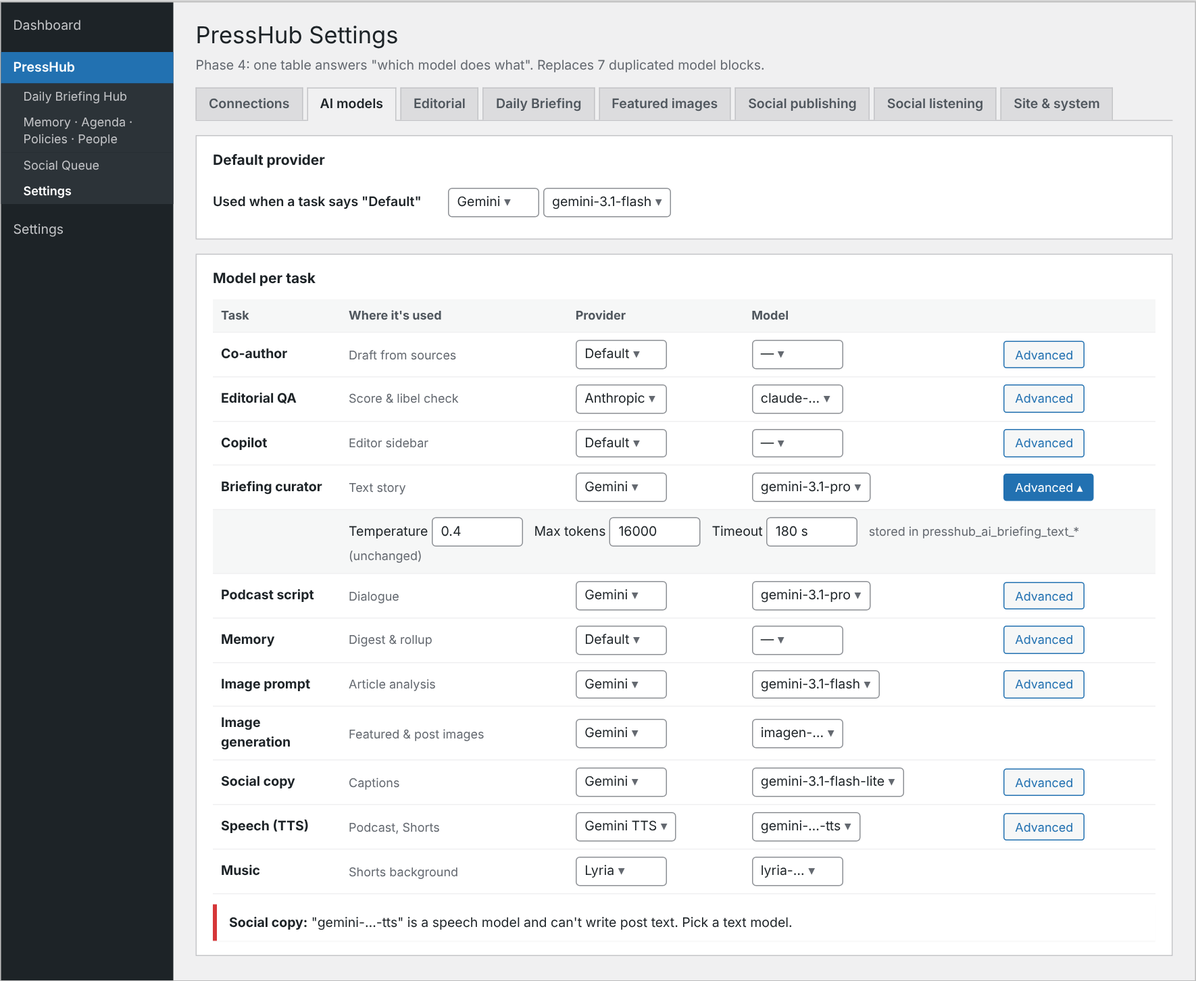
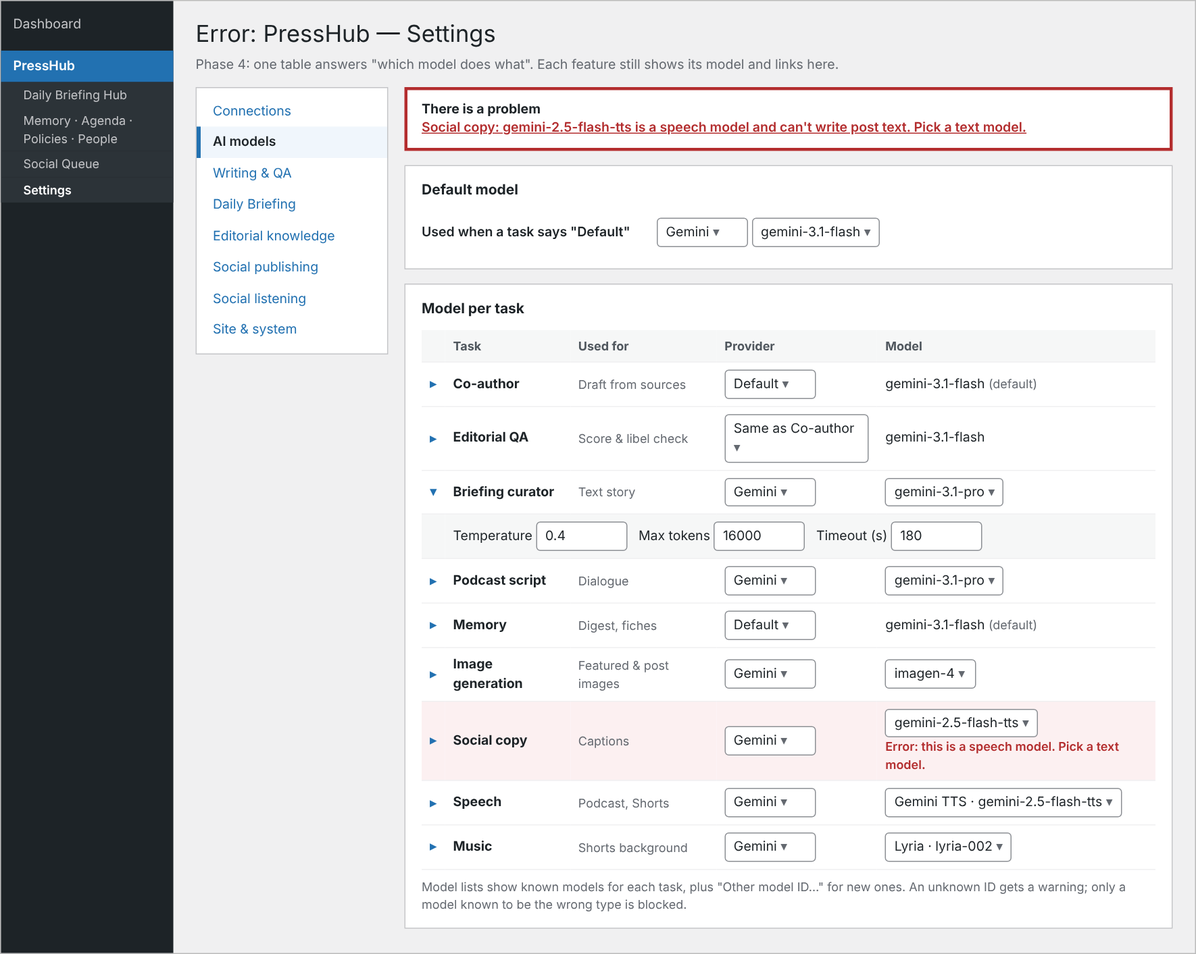
docs(settings): mockups updated for the independent UI review
Side section nav, per-section save with unsaved-changes guard, settings
search, one notice listing every unmet Shorts requirement, cached
connection status, resolved default models, GOV.UK-style errors, a
Scheduled for removal list and a label-first clean-up report.

Claude-Session: https://claude.ai/code/session_013L9h76MmkfmFz1rkbvCuzK

diff --git a/docs/settings-overhaul/mockups/mockups.html b/docs/settings-overhaul/mockups/mockups.html
@@ -36,147 +36,206 @@ th{font-size:12px;color:#50575e;background:#f6f7f7}
 .tag{font-size:10px;font-family:Consolas,monospace;padding:1px 5px;border-radius:3px;background:#e5f0fa;color:#135e96;margin-left:6px}
 .dim{opacity:.45}
 .lbl{position:relative}.callout{position:absolute;right:-6px;top:-10px;background:#d63638;color:#fff;font-size:10px;padding:1px 6px;border-radius:8px}
-</style></head><body>
 
-<!-- 1. Phase 1: hidden settings surfaced -->
+.snav{width:190px;flex:none;background:#fff;border:1px solid #c3c4c7;padding:8px 0;align-self:flex-start}
+.snav a{display:block;padding:6px 12px;color:#2271b1;text-decoration:none;border-left:4px solid transparent}
+.snav a.on{color:#1d2327;font-weight:600;border-left-color:#2271b1;background:#f0f6fc}
+.snav .s{padding:6px 12px}
+.layout{display:flex;gap:16px;align-items:flex-start;margin-top:10px}.content{flex:1;min-width:0}
+.toc{font-size:12px;color:#50575e;padding:4px 0 6px}.toc a{color:#2271b1;margin-right:12px;text-decoration:none}
+.search{border:1px solid #8c8f94;border-radius:4px;padding:5px 10px;background:#fff;color:#646970;width:100%;margin-bottom:8px}
+.savebar{position:relative;margin-top:16px;background:#fff;border:1px solid #c3c4c7;border-top:3px solid #2271b1;padding:10px 14px;display:flex;gap:12px;align-items:center}
+.cb{display:inline-block;width:16px;height:16px;border:1px solid #8c8f94;border-radius:4px;background:#fff;vertical-align:-3px;text-align:center;line-height:14px;font-size:12px;color:#2271b1}
+.cb.on:after{content:"✓";font-weight:700}
+.h3{font-size:13px;font-weight:600;margin:14px 0 4px;padding-top:10px;border-top:1px solid #dcdcde}
+.disabled{color:#50575e}.disabled .in{background:#f6f7f7;color:#50575e;border-color:#c3c4c7}
+.errsum{border:3px solid #b32d2e;background:#fff;padding:10px 14px;margin-top:12px}
+.errsum b{color:#1d2327}.errsum a{color:#b32d2e;font-weight:600}
+tr.erow td{background:#fcf0f1}.errtxt{color:#b32d2e;font-weight:600;font-size:12px}
+.exp{color:#2271b1;font-size:14px}
+.warnt{color:#8a4b00;font-weight:600}
+</style></head><body>
+<!-- P1 -->
 <div class="screen" id="p1">
  <div class="side"><div>Dashboard</div><div>Posts</div><div class="gap"></div><div class="top">Settings</div><div class="sub">General</div><div class="sub cur">PressHub AI</div><div class="gap"></div><div>Daily Briefing Hub</div><div>Policy Fiches</div><div>PressHub Social</div></div>
- <div class="main"><h1>PressHub AI Settings</h1><div class="crumb">Phase 1: same tabs as today. Previously hidden settings become visible; nothing is removed yet.</div>
- <div class="tabs"><div class="tab">AI Providers</div><div class="tab">AI Co-Author &amp; Review</div><div class="tab on">Daily Briefing Hub</div><div class="tab">AI Featured Images</div><div class="tab">AI Copilot</div><div class="tab">Token &amp; Usage Logs</div><div class="tab">Advanced &amp; System</div></div>
+ <div class="main"><h1>PressHub AI Settings</h1><div class="crumb">Phase 1: same pages as today. Hidden settings that change behaviour appear in the block they belong to. Nothing is removed.</div>
+ <div class="tabs"><div class="tab">AI Providers</div><div class="tab">AI Co-Author &amp; Review</div><div class="tab on">Daily Briefing Hub</div><div class="tab">AI Featured Images</div><div class="tab">AI Copilot &amp; Assistant</div><div class="tab">Editorial knowledge <span class="pill new">new</span></div><div class="tab">Token &amp; Usage Logs</div><div class="tab">Advanced &amp; System</div></div>
  <div class="two">
- <div class="card"><h2>§2 Podcast &amp; Audio <span class="pill new">2 fields now visible</span></h2>
-  <div class="row"><label>Voice synthesis engine <span class="pill new">was hidden</span></label><div><span class="in sel">Gemini TTS</span><div class="hint">Also decides which voices the Shorts &amp; Reels narrator can use (Social → Automation Worker).</div></div></div>
-  <div class="row"><label>Podcast preset <span class="pill new">was hidden</span></label><div><span class="in sel">Conversational news (default)</span></div></div>
-  <div class="row"><label>Presenter 1 voice</label><div><span class="in sel">Kore</span></div></div>
+ <div class="card"><h2>§2 Podcast: speech model</h2>
+  <div class="row"><label>Speech engine <span class="pill new">was hidden</span></label><div><span class="in sel">Gemini TTS</span><div class="hint">Also decides which voices the Shorts &amp; Reels narrator can use. Default: Gemini TTS.</div></div></div>
+  <div class="row"><label>Speech provider / model</label><div><span class="in sel">Gemini</span> <span class="in sel">gemini-2.5-flash-tts</span></div></div>
+  <div class="row"><label>Podcast preset <span class="pill new">was hidden</span></label><div><span class="in sel">Conversational news</span><div class="hint">Default: Conversational news.</div></div></div>
  </div>
- <div class="card"><h2>§1 Text Story Curator: model <span class="pill new">2 fields now visible</span></h2>
+ <div class="card"><h2>§1 Text Story Curator: model</h2>
   <div class="row"><label>Curator provider / model</label><div><span class="in sel">Gemini</span> <span class="in sel">gemini-3.1-pro</span></div></div>
-  <div class="row"><label>Curator temperature <span class="pill new">was hidden</span></label><div><span class="in">0.4</span></div></div>
-  <div class="row"><label>Curator timeout (s) <span class="pill new">was hidden</span></label><div><span class="in">180</span></div></div>
+  <div class="row"><label>Temperature <span class="pill new">was hidden</span></label><div><span class="in">0.4</span> <span class="hint">Default 0.4. Lower is more literal.</span></div></div>
+  <div class="row"><label>Timeout (s) <span class="pill new">was hidden</span></label><div><span class="in">180</span> <span class="hint">Default 180.</span></div></div>
  </div></div>
- <div class="card"><h2>Advanced &amp; System → Diagnostic logging</h2>
-  <div class="row"><label>Raw debug dump: prompts</label><div><span class="in">☐</span> <span class="hint">was labelled "Raw debug dump"</span></div></div>
-  <div class="row"><label>Raw debug dump: TTS payloads</label><div><span class="in">☐</span> <span class="hint">was also labelled "Raw debug dump"</span></div></div>
+ <div class="card"><h2>Editorial knowledge <span class="hint" style="font-weight:400">new section: switches that were only code filters</span></h2>
+  <div class="two"><div>
+  <div class="row"><label>Policy fiches in AI calls</label><div><span class="cb on"></span> <span class="hint">Adds matching policy fiches to every prompt. Default: on.</span></div></div>
+  <div class="row"><label>People fiches in AI calls</label><div><span class="cb on"></span> <span class="hint">Default: on.</span></div></div></div><div>
+  <div class="row"><label>Claim checks in curation</label><div><span class="cb on"></span> <span class="hint">Default: on.</span></div></div>
+  <div class="row"><label>Clean the article pool</label><div><span class="cb on"></span> max age <span class="in">48</span> h</div></div></div></div>
+  <div class="collapsed">▸ Advanced: context budgets for agenda, people and policies (characters)</div>
  </div>
- <div class="save"><span class="btn p">Save Daily Briefing Settings</span><span class="hint">One save path for every tab (options.php / AJAX / per-section maps merged into one option map).</span></div>
+ <div class="savebar"><span class="btn p">Save Daily Briefing Settings</span><span class="hint">All three save paths now read one settings registry. <a href="#">Export settings (JSON, no keys)</a></span></div>
  </div></div>
 
-<!-- 2. Phase 2: briefing sub-tabs -->
+<!-- P1 removal list -->
+<div class="screen" id="p1-removal">
+ <div class="side"><div>Dashboard</div><div class="gap"></div><div class="top">Settings</div><div class="sub cur">PressHub AI</div><div class="gap"></div><div>Daily Briefing Hub</div><div>Policy Fiches</div><div>PressHub Social</div></div>
+ <div class="main"><h1>PressHub AI Settings</h1><div class="crumb">Phase 1 onward: unused settings leave their sections and wait in one list for your sign-off. Their saved values are kept until the clean-up phase.</div>
+ <div class="tabs"><div class="tab">AI Providers</div><div class="tab">AI Co-Author &amp; Review</div><div class="tab">Daily Briefing Hub</div><div class="tab">AI Featured Images</div><div class="tab">AI Copilot &amp; Assistant</div><div class="tab">Editorial knowledge</div><div class="tab">Token &amp; Usage Logs</div><div class="tab on">Advanced &amp; System</div></div>
+ <div class="card"><h2>Diagnostics → Scheduled for removal</h2>
+ <div class="hint" style="margin-bottom:8px">Nothing here is read by PressHub. These settings are removed in the clean-up phase, only after you approve this list.</div>
+ <table><tr><th>Setting</th><th>Was shown on</th><th>Saved value</th><th>Why it's unused</th><th>Last read</th></tr>
+ <tr><td><b>Second GitHub token</b></td><td>Social → General &amp; Engines</td><td class="mono">ghp_••••91</td><td>Plugin updates use the AI GitHub token</td><td>Never</td></tr>
+ <tr><td><b>X OAuth1 keys</b> (3)</td><td>Social → API Credentials</td><td class="mono">set</td><td>Posting to X uses the bearer token or the worker</td><td>Never</td></tr>
+ <tr><td><b>Podcast prompts 1–3</b></td><td>Daily Briefing §2</td><td>3 prompts</td><td>Replaced by the per-style prompt studio</td><td>Before 2.20</td></tr>
+ </table>
+ <div class="save"><span class="btn">Download as JSON</span><span class="hint">Approve the list on the clean-up pull request (#237).</span></div></div>
+ </div></div>
+
+<!-- P2 briefing -->
 <div class="screen" id="p2-briefing">
  <div class="side"><div>Dashboard</div><div>Posts</div><div class="gap"></div><div class="top">Settings</div><div class="sub cur">PressHub AI</div><div class="gap"></div><div>Daily Briefing Hub</div><div>Policy Fiches</div><div>PressHub Social</div></div>
- <div class="main"><h1>PressHub AI Settings</h1><div class="crumb">Phase 2: the 124-field Briefing tab split into sub-tabs. Option names unchanged.</div>
- <div class="tabs"><div class="tab">AI Providers</div><div class="tab">AI Co-Author &amp; Review</div><div class="tab on">Daily Briefing Hub</div><div class="tab">AI Featured Images</div><div class="tab">AI Copilot</div><div class="tab">Social listening <span class="pill new">new</span></div><div class="tab">Advanced &amp; System</div></div>
- <div class="subtabs"><span class="on">Schedule</span><span>Sources &amp; harvesting</span><span>Text story</span><span>Podcast script</span><span>Voices &amp; audio</span><span>Publishing</span><span>Editorial memory</span></div>
- <div class="two">
-  <div class="card"><h2>Morning edition <span class="pill ok">On</span></h2>
-   <div class="row"><label>Enabled</label><div><span class="in">☑</span></div></div>
+ <div class="main"><h1>PressHub AI Settings</h1><div class="crumb">Phase 2: Daily Briefing becomes one scrolling page of six named groups with a contents bar. No second row of tabs.</div>
+ <div class="search">Search settings… (labels, help text and old names, e.g. "host female", "TikTok shorts")</div>
+ <div class="tabs"><div class="tab">AI Providers</div><div class="tab">AI Co-Author &amp; Review</div><div class="tab on">Daily Briefing Hub</div><div class="tab">AI Featured Images</div><div class="tab">AI Copilot &amp; Assistant</div><div class="tab">Editorial knowledge</div><div class="tab">Social listening <span class="pill new">new</span></div><div class="tab">Advanced &amp; System</div></div>
+ <div class="toc">On this page: <a href="#">Schedule</a><a href="#">Sources &amp; harvesting</a><a href="#">Text story</a><a href="#">Podcast script</a><a href="#">Voices &amp; audio</a><a href="#">Publishing</a></div>
+ <div class="card"><h2>Schedule</h2>
+ <div class="two"><div><div class="h3" style="border:none;margin-top:0;padding-top:0">Morning edition</div>
+   <div class="row"><label>Enabled</label><div><span class="cb on"></span></div></div>
    <div class="row"><label>Harvest at</label><div><span class="in">04:15</span></div></div>
    <div class="row"><label>Generate at</label><div><span class="in">04:30</span></div></div></div>
-  <div class="card"><h2>Noon edition <span class="pill ok">On</span></h2>
-   <div class="row"><label>Enabled</label><div><span class="in">☑</span></div></div>
+  <div><div class="h3" style="border:none;margin-top:0;padding-top:0">Noon edition</div>
+   <div class="row"><label>Enabled</label><div><span class="cb on"></span></div></div>
    <div class="row"><label>Harvest at</label><div><span class="in">10:15</span></div></div>
-   <div class="row"><label>Generate at</label><div><span class="in">10:30</span></div></div></div>
- </div>
- <div class="card"><h2>Harvest</h2>
-  <div class="row"><label>Sources</label><div>14 sources · <span class="pill grey">priority 1–5</span> <span class="pill grey">alignment tags</span> <span class="hint">edited on Sources &amp; harvesting</span></div></div><div class="row"><label>Harvest time budget</label><div><span class="in">240 s</span></div></div>
-  <div class="row"><label>Social posts as sources</label><div><span class="in">☑</span> <span class="hint">Accounts and roundup are configured in <a href="#">Social listening →</a></span></div></div></div>
- <div class="notice info"><b>Moved:</b> Press release inbox → <i>Sources &amp; harvesting</i>. Social monitoring and Trending in Cyprus → the new <i>Social listening</i> tab. Old links (#briefing) open the right sub-tab.</div>
- <div class="save"><span class="btn p">Save Daily Briefing Settings</span><span class="hint">Saves only this tab's option group; a test checks no other option changes.</span></div>
+   <div class="row"><label>Generate at</label><div><span class="in">10:30</span></div></div></div></div></div>
+ <div class="card"><h2>Voices &amp; audio</h2>
+  <div class="row"><label>Presenter 1</label><div><span class="in">Ελένη</span> <span class="in sel">Kore</span></div></div>
+  <div class="row"><label>Presenter 2</label><div><span class="in">Andreas</span> <span class="in sel">Puck</span></div></div>
+  <div class="row"><label>Speaking speed (%)</label><div><span class="in">105</span> <span class="hint">Default 100. <a href="#">Reset</a></span></div></div>
+  <div class="collapsed">▸ Advanced: speech payload mode, request delay, retries, backoff, requests per minute, max retry wait</div></div>
+ <div class="notice info"><b>What's new in settings:</b> the press inbox is under Sources &amp; harvesting; monitoring and Trending have their own Social listening tab; Shorts &amp; Reels have their own tab on Social. Use search if you can't find something. <a href="#">Dismiss</a></div>
+ <div class="savebar"><span class="btn p">Save Daily Briefing</span><span class="hint" role="status">Unsaved changes in Voices &amp; audio. Leaving this tab will ask first.</span></div>
  </div></div>
 
-<!-- 3. Phase 2: Shorts & Reels tab -->
+<!-- P2 shorts -->
 <div class="screen" id="p2-shorts">
  <div class="side"><div>Dashboard</div><div class="gap"></div><div class="top">PressHub Social</div><div class="sub">Queue</div><div class="sub cur">Settings</div><div class="gap"></div><div>Settings</div></div>
- <div class="main"><h1>PressHub Social Settings</h1><div class="crumb">Phase 2: Shorts and Reels get their own tab, with dependency checks.</div>
+ <div class="main"><h1>PressHub Social Settings</h1><div class="crumb">Phase 2: Shorts and Reels get their own tab. Unmet requirements are listed in one notice, with a link to each fix.</div>
  <div class="tabs"><div class="tab">General &amp; Engines</div><div class="tab">AI Copywriter</div><div class="tab">API Credentials</div><div class="tab">Automation Worker</div><div class="tab on">Shorts &amp; Reels <span class="pill new">new</span></div><div class="tab">Queue &amp; Alerts</div><div class="tab">Prompts &amp; Templates</div></div>
- <div class="notice err"><b>Shorts can't run yet:</b> the automation worker is in <b>Push</b> mode. Shorts and Reels need <b>Pull</b> mode. <a href="#">Change worker mode →</a></div>
+ <div class="notice err"><b>Shorts can't run yet. 2 things to fix:</b><br>1. The automation worker is in Push mode; Shorts and Reels need Pull mode. <a href="#">Change worker mode</a><br>2. Instagram Reels need the automation engine; the Instagram engine is set to API. <a href="#">Change Instagram engine</a></div>
  <div class="card"><h2>Where to post</h2>
-  <div class="row"><label>Post to TikTok</label><div><span class="in">☑</span> <span class="pill ok">TikTok engine: automation</span></div></div>
-  <div class="row"><label>Post to Instagram Reels</label><div><span class="in">☑</span> <span class="pill ok">Instagram engine: API</span></div></div></div>
+  <div class="row"><label>Post to TikTok</label><div><span class="cb on"></span> <span class="hint">Ready: TikTok engine is automation.</span></div></div>
+  <div class="row"><label>Post to Instagram Reels</label><div><span class="cb on"></span> <span class="warnt">Not ready: see item 2 above.</span></div></div></div>
  <div class="two">
  <div class="card"><h2>Schedule &amp; script</h2>
   <div class="row"><label>Shorts per edition</label><div><span class="in">3</span></div></div>
-  <div class="row"><label>Time between shorts</label><div><span class="in">90 min</span></div></div>
-  <div class="row"><label>Script length</label><div><span class="in">110 words</span></div></div>
+  <div class="row"><label>Time between shorts (min)</label><div><span class="in">90</span></div></div>
+  <div class="row"><label>Script length (words)</label><div><span class="in">110</span></div></div>
   <div class="row"><label>Story images per short</label><div><span class="in">3</span></div></div></div>
  <div class="card"><h2>Narration</h2>
+  <div class="row"><label>Speech engine</label><div>Gemini TTS <a href="#">change in Daily Briefing → Voices &amp; audio</a></div></div>
   <div class="row"><label>Narrators</label><div><span class="in sel">1 (recommended)</span></div></div>
-  <div class="row"><label>Voice</label><div><span class="in sel">Puck: upbeat</span><div class="hint">Voices from the speech engine set in Daily Briefing (Gemini TTS).</div></div></div>
-  <div class="row dim"><label>Second voice</label><div><span class="in sel">Kore</span> <span class="hint">only with 2 narrators</span></div></div>
-  <div class="row"><label>Speed</label><div><span class="in">110%</span></div></div></div></div>
- <div class="card"><h2>Background music</h2><div class="row"><label>Enabled</label><div><span class="in">☑</span> <span class="btn">Generate music tracks</span></div></div></div>
- <div class="collapsed">▸ Shorts prompts (script, image, narration, music) — moved here from Prompts &amp; Templates</div>
+  <div class="row"><label>Voice</label><div><span class="in sel">Puck: upbeat</span></div></div>
+  <div class="row disabled"><label>Second voice</label><div><span class="in sel">Kore</span> <span class="hint">Used only with 2 narrators.</span></div></div>
+  <div class="row"><label>Speed (%)</label><div><span class="in">110</span></div></div></div></div>
+ <div class="collapsed">▸ Shorts prompts (script, image, narration, music)</div>
+ <div class="savebar"><span class="btn p">Save Shorts &amp; Reels</span><span class="hint">Saves this tab only. Switching tabs with unsaved changes asks first.</span></div>
  </div></div>
 
-<!-- 4. Phase 3: one menu + connections -->
+<!-- P3 connections (3c) -->
 <div class="screen" id="p3-connections">
- <div class="side"><div>Dashboard</div><div>Posts</div><div class="gap"></div><div class="top cur">PressHub</div><div class="sub">Daily Briefing Hub</div><div class="sub">Generation records</div><div class="sub">Memory</div><div class="sub">Editorial agenda</div><div class="sub">Policies</div><div class="sub">People</div><div class="sub">Social Queue</div><div class="sub cur">Settings</div><div class="sub">Presets</div><div class="gap"></div><div>Settings</div></div>
- <div class="main"><h1>PressHub Settings</h1><div class="crumb">Phase 3: one menu, one settings page. Connections holds every key and account.</div>
- <div class="tabs"><div class="tab on">Connections</div><div class="tab">AI models</div><div class="tab">Editorial</div><div class="tab">Daily Briefing</div><div class="tab">Featured images</div><div class="tab">Social publishing</div><div class="tab">Social listening</div><div class="tab">Site &amp; system</div></div>
- <div class="card"><h2>AI providers</h2>
+ <div class="side"><div>Dashboard</div><div>Posts</div><div class="gap"></div><div class="top cur">PressHub</div><div class="sub">Daily Briefing Hub</div><div class="sub">Generation records</div><div class="sub">Social Queue</div><div class="sub">Memory</div><div class="sub">Editorial agenda</div><div class="sub">Policies</div><div class="sub">People</div><div class="sub">Usage &amp; logs</div><div class="sub cur">Settings</div><div class="sub">Presets</div></div>
+ <div class="main"><h1>PressHub — Settings</h1><div class="crumb">Phase 3: one menu and one Settings page with a section list on the left. Connections holds every key and account.</div>
+ <div class="layout">
+ <div class="snav"><div class="s"><div class="search" style="margin:0">Search settings…</div></div><a class="on" href="#">Connections</a><a href="#">AI models</a><a href="#">Writing &amp; QA</a><a href="#">Daily Briefing</a><a href="#">Editorial knowledge</a><a href="#">Social publishing</a><a href="#">Social listening</a><a href="#">Site &amp; system</a></div>
+ <div class="content">
+ <div class="notice err" style="margin-top:0"><b>Setup check: 1 problem.</b> Shorts are blocked because the worker is in Push mode. <a href="#">Fix in Local worker</a></div>
+ <div class="card"><h2>AI providers <span class="hint" style="font-weight:400">checked 06:10 · <a href="#">Recheck all</a></span></h2>
   <div class="grid3">
-   <div class="conn"><h3>Gemini <span class="pill ok">Connected</span></h3><div class="in mono">AIza••••••••••3kQ</div><div class="hint" style="margin-top:6px">Text, speech, image, music</div><div style="margin-top:6px"><span class="btn">Test</span> <span class="btn">Replace key</span></div></div>
-   <div class="conn"><h3>OpenAI <span class="pill grey">Not set</span></h3><div class="in mono">&nbsp;</div><div class="hint" style="margin-top:6px">Organisation ID (optional)</div><div style="margin-top:6px"><span class="btn">Add key</span></div></div>
-   <div class="conn"><h3>Google Cloud <span class="pill ok">Connected</span></h3><div class="in mono">AIza••••••••••x9P</div><div class="hint" style="margin-top:6px">Project <b>presshub-cy</b> · region <b>europe-west4</b></div><div style="margin-top:6px"><span class="btn">Test</span></div></div>
+   <div class="conn"><h3>Gemini <span class="pill ok">Connected</span></h3><div class="mono">AIza••••3kQ</div><div class="hint">Text, speech, images, music</div><div style="margin-top:6px"><span class="btn">Test</span> <span class="btn">Replace key</span></div></div>
+   <div class="conn"><h3>OpenAI <span class="pill grey">Not set</span></h3><div class="hint">No key saved</div><div style="margin-top:6px"><span class="btn">Add key</span></div></div>
+   <div class="conn"><h3>Google Cloud <span class="pill ok">Connected</span></h3><div class="mono">AIza••••x9P</div><div class="hint">Project presshub-cy · europe-west4</div><div style="margin-top:6px"><span class="btn">Test</span> <span class="btn">Replace key</span></div></div>
   </div></div>
  <div class="two">
   <div class="card"><h2>Social accounts</h2>
-   <table><tr><th>Platform</th><th>Credential</th><th>Status</th></tr>
-   <tr><td>Facebook Page</td><td class="mono">Page 1043… · token ••••Zx</td><td><span class="pill ok">Valid, 54 days left</span></td></tr>
-   <tr><td>Instagram</td><td class="mono">Account 1784…</td><td><span class="pill ok">Linked</span></td></tr>
-   <tr><td>X</td><td class="mono">Bearer ••••Q2</td><td><span class="pill ok">Valid</span></td></tr>
-   <tr><td>TikTok</td><td class="mono">Open ID ••••a1</td><td><span class="pill warn">Expires in 3 days</span></td></tr></table>
-   <div class="collapsed" style="margin-top:8px">▸ Unused fields (3 X OAuth1 keys): kept here, removed in the final clean-up phase</div></div>
-  <div class="card"><h2>Local worker <span class="pill ok">Heartbeat 2 min ago</span></h2>
-   <div class="row"><label>Mode</label><div><span class="in">◉ Pull</span> <span class="in">○ Push</span></div></div>
-   <div class="row"><label>Worker secret</label><div><span class="in mono">••••••••••••7f</span> <span class="btn">Regenerate</span></div></div>
-   <div class="row dim"><label>Worker URL / timeout</label><div class="hint">Shown only in Push mode</div></div>
-   <div class="row"><label>Sessions</label><div><span class="pill ok">X</span> <span class="pill ok">TikTok</span> <span class="pill ok">Instagram</span> <span class="pill warn">Facebook reader: login needed</span></div></div></div>
+   <table><tr><th>Platform</th><th>Status (checked 06:10)</th><th></th></tr>
+   <tr><td>Facebook Page</td><td><span class="pill ok">Valid, 54 days left</span></td><td><span class="btn">Replace</span></td></tr>
+   <tr><td>Instagram</td><td><span class="pill ok">Linked</span></td><td><span class="btn">Replace</span></td></tr>
+   <tr><td>X</td><td><span class="pill ok">Valid</span></td><td><span class="btn">Replace</span></td></tr>
+   <tr><td>TikTok</td><td><span class="pill warn">Expires in 3 days</span></td><td><span class="btn">Replace</span></td></tr></table></div>
+  <div class="card"><h2>Local worker <span class="pill ok">Heartbeat 06:08</span></h2>
+   <div class="row"><label>Mode</label><div>◉ Pull &nbsp; ○ Push</div></div>
+   <div class="row"><label>Worker secret</label><div><span class="mono">••••7f</span> <span class="btn">Regenerate…</span><div class="hint">Asks first: the worker stops until you paste the new secret.</div></div></div>
+   <div class="row disabled"><label>Worker URL, timeout</label><div><span class="in">http://192.168.1.20:8787</span> <span class="hint">Used only in Push mode.</span></div></div>
+   <div class="row"><label>Logins</label><div><span class="pill ok">X: logged in</span> <span class="pill ok">TikTok: logged in</span> <span class="pill bad">Facebook reader: login needed</span></div></div></div>
  </div>
- <div class="two">
-  <div class="card"><h2>Press release inbox</h2><div class="row"><label>IMAP</label><div class="mono">imap.gmail.com:993 · press@… · ••••••</div></div><div class="row"><label>Status</label><div><span class="pill ok">Last fetch 04:10, 3 new</span></div></div></div>
-  <div class="card"><h2>Plugin updates</h2><div class="row"><label>GitHub token</label><div><span class="in mono">ghp_••••••••3a</span> <div class="hint">The second token from Social is shown as "Unused, removed in the final clean-up phase".</div></div></div></div>
- </div>
- <div class="notice info">Old addresses (<span class="mono">options-general.php?page=presshub-ai</span>, <span class="mono">admin.php?page=presshub-social-settings&amp;tab=…</span>) redirect to the matching tab here.</div>
+ <div class="card"><h2>Press release inbox</h2><div class="row"><label>Mailbox</label><div class="mono">imap.gmail.com:993 · press@…</div></div><div class="row"><label>Status</label><div><span class="pill ok">Last fetch 04:10, 3 new</span> <span class="hint">Folders and filtering: <a href="#">Daily Briefing → Sources</a></span></div></div></div>
+ </div></div>
  </div></div>
 
-<!-- 5. Phase 4: AI models routing table -->
-<div class="screen" id="p4-models">
- <div class="side"><div>Dashboard</div><div class="gap"></div><div class="top cur">PressHub</div><div class="sub">Daily Briefing Hub</div><div class="sub">Memory · Agenda · Policies · People</div><div class="sub">Social Queue</div><div class="sub cur">Settings</div><div class="gap"></div><div>Settings</div></div>
- <div class="main"><h1>PressHub Settings</h1><div class="crumb">Phase 4: one table answers "which model does what". Replaces 7 duplicated model blocks.</div>
- <div class="tabs"><div class="tab">Connections</div><div class="tab on">AI models</div><div class="tab">Editorial</div><div class="tab">Daily Briefing</div><div class="tab">Featured images</div><div class="tab">Social publishing</div><div class="tab">Social listening</div><div class="tab">Site &amp; system</div></div>
- <div class="card"><h2>Default provider</h2><div class="row"><label>Used when a task says "Default"</label><div><span class="in sel">Gemini</span> <span class="in sel">gemini-3.1-flash</span></div></div></div>
- <div class="card"><h2>Model per task</h2>
- <table><tr><th>Task</th><th>Where it's used</th><th>Provider</th><th>Model</th><th></th></tr>
- <tr><td><b>Co-author</b></td><td class="hint">Draft from sources</td><td><span class="in sel">Default</span></td><td><span class="in sel">—</span></td><td><span class="btn">Advanced</span></td></tr>
- <tr><td><b>Editorial QA</b></td><td class="hint">Score &amp; libel check</td><td><span class="in sel">Anthropic</span></td><td><span class="in sel">claude-…</span></td><td><span class="btn">Advanced</span></td></tr>
- <tr><td><b>Copilot</b></td><td class="hint">Editor sidebar</td><td><span class="in sel">Default</span></td><td><span class="in sel">—</span></td><td><span class="btn">Advanced</span></td></tr>
- <tr><td><b>Briefing curator</b></td><td class="hint">Text story</td><td><span class="in sel">Gemini</span></td><td><span class="in sel">gemini-3.1-pro</span></td><td><span class="btn p">Advanced ▴</span></td></tr>
- <tr class="adv"><td></td><td colspan="4">Temperature <span class="in">0.4</span> &nbsp; Max tokens <span class="in">16000</span> &nbsp; Timeout <span class="in">180 s</span> &nbsp; <span class="hint">stored in presshub_ai_briefing_text_* (unchanged)</span></td></tr>
- <tr><td><b>Podcast script</b></td><td class="hint">Dialogue</td><td><span class="in sel">Gemini</span></td><td><span class="in sel">gemini-3.1-pro</span></td><td><span class="btn">Advanced</span></td></tr>
- <tr><td><b>Memory</b></td><td class="hint">Digest &amp; rollup</td><td><span class="in sel">Default</span></td><td><span class="in sel">—</span></td><td><span class="btn">Advanced</span></td></tr>
- <tr><td><b>Image prompt</b></td><td class="hint">Article analysis</td><td><span class="in sel">Gemini</span></td><td><span class="in sel">gemini-3.1-flash</span></td><td><span class="btn">Advanced</span></td></tr>
- <tr><td><b>Image generation</b></td><td class="hint">Featured &amp; post images</td><td><span class="in sel">Gemini</span></td><td><span class="in sel">imagen-…</span></td><td></td></tr>
- <tr><td><b>Social copy</b></td><td class="hint">Captions</td><td><span class="in sel">Gemini</span></td><td><span class="in sel">gemini-3.1-flash-lite</span></td><td><span class="btn">Advanced</span></td></tr>
- <tr><td><b>Speech (TTS)</b></td><td class="hint">Podcast, Shorts</td><td><span class="in sel">Gemini TTS</span></td><td><span class="in sel">gemini-…-tts</span></td><td><span class="btn">Advanced</span></td></tr>
- <tr><td><b>Music</b></td><td class="hint">Shorts background</td><td><span class="in sel">Lyria</span></td><td><span class="in sel">lyria-…</span></td><td></td></tr>
- </table>
- <div class="notice err" style="margin-top:10px"><b>Social copy:</b> "gemini-…-tts" is a speech model and can't write post text. Pick a text model.</div>
- </div></div></div>
+<!-- P3 settings page (3b) -->
+<div class="screen" id="p3-settings">
+ <div class="side"><div>Dashboard</div><div>Posts</div><div class="gap"></div><div class="top cur">PressHub</div><div class="sub">Daily Briefing Hub</div><div class="sub">Generation records</div><div class="sub">Social Queue</div><div class="sub">Memory</div><div class="sub">Editorial agenda</div><div class="sub">Policies</div><div class="sub">People</div><div class="sub">Usage &amp; logs</div><div class="sub cur">Settings</div><div class="sub">Presets</div></div>
+ <div class="main"><h1>PressHub — Settings</h1><div class="crumb">Phase 3: each section is its own page load with its own Save. Leaving with unsaved changes asks first.</div>
+ <div class="layout">
+ <div class="snav"><div class="s"><div class="search" style="margin:0">Search settings…</div></div><a href="#">Connections</a><a href="#">AI models</a><a class="on" href="#" aria-current="page">Writing &amp; QA</a><a href="#">Daily Briefing</a><a href="#">Editorial knowledge</a><a href="#">Social publishing</a><a href="#">Social listening</a><a href="#">Site &amp; system</a></div>
+ <div class="content">
+ <div class="toc" style="padding-top:0">On this page: <a href="#">Co-author drafting</a><a href="#">QA gate</a><a href="#">SEO &amp; tags</a><a href="#">Featured images</a><a href="#">Presets</a></div>
+ <div class="card" style="margin-top:4px"><h2>Co-author drafting</h2>
+  <div class="row"><label>Model</label><div>Default → gemini-3.1-flash <a href="#">change in AI models</a></div></div>
+  <div class="row"><label>Max sources per draft</label><div><span class="in">6</span> <span class="hint">Default 5. <a href="#">Reset</a></span></div></div>
+  <div class="row"><label>Writing guide</label><div><span class="cb on"></span> <span class="hint">Applies the house writing guide from Policies.</span></div></div></div>
+ <div class="card"><h2>QA gate</h2>
+  <div class="row"><label>Model</label><div>Same as Co-author → gemini-3.1-flash <a href="#">change in AI models</a></div></div>
+  <div class="row"><label>Minimum score to publish</label><div><span class="in">7</span> <span class="hint">0–10. Default 7.</span></div></div>
+  <div class="collapsed">▸ Advanced: QA prompt, libel check wording</div></div>
+ <div class="savebar"><span class="btn p">Save Writing &amp; QA</span><span class="hint" role="status">2 unsaved changes</span><span class="hint" style="margin-left:auto">Leave this page? Your 2 changes in Writing &amp; QA aren't saved. [Stay] [Leave]</span></div>
+ </div></div>
+ </div></div>
 
-<!-- 6. Phase 5: migration notice -->
+<!-- P4 models -->
+<div class="screen" id="p4-models">
+ <div class="side"><div>Dashboard</div><div class="gap"></div><div class="top cur">PressHub</div><div class="sub">Daily Briefing Hub</div><div class="sub">Memory · Agenda · Policies · People</div><div class="sub">Social Queue</div><div class="sub cur">Settings</div></div>
+ <div class="main"><h1>Error: PressHub — Settings</h1><div class="crumb">Phase 4: one table answers "which model does what". Each feature still shows its model and links here.</div>
+ <div class="layout">
+ <div class="snav"><a href="#">Connections</a><a class="on" href="#">AI models</a><a href="#">Writing &amp; QA</a><a href="#">Daily Briefing</a><a href="#">Editorial knowledge</a><a href="#">Social publishing</a><a href="#">Social listening</a><a href="#">Site &amp; system</a></div>
+ <div class="content">
+ <div class="errsum" style="margin-top:0"><b>There is a problem</b><br><a href="#">Social copy: gemini-2.5-flash-tts is a speech model and can't write post text. Pick a text model.</a></div>
+ <div class="card"><h2>Default model</h2><div class="row"><label>Used when a task says "Default"</label><div><span class="in sel">Gemini</span> <span class="in sel">gemini-3.1-flash</span></div></div></div>
+ <div class="card"><h2>Model per task</h2>
+ <table><tr><th></th><th>Task</th><th>Used for</th><th>Provider</th><th>Model</th></tr>
+ <tr><td class="exp">▸</td><td><b>Co-author</b></td><td class="hint">Draft from sources</td><td><span class="in sel">Default</span></td><td>gemini-3.1-flash <span class="hint">(default)</span></td></tr>
+ <tr><td class="exp">▸</td><td><b>Editorial QA</b></td><td class="hint">Score &amp; libel check</td><td><span class="in sel">Same as Co-author</span></td><td>gemini-3.1-flash</td></tr>
+ <tr><td class="exp">▾</td><td><b>Briefing curator</b></td><td class="hint">Text story</td><td><span class="in sel">Gemini</span></td><td><span class="in sel">gemini-3.1-pro</span></td></tr>
+ <tr class="adv"><td></td><td colspan="4">Temperature <span class="in">0.4</span> &nbsp; Max tokens <span class="in">16000</span> &nbsp; Timeout (s) <span class="in">180</span></td></tr>
+ <tr><td class="exp">▸</td><td><b>Podcast script</b></td><td class="hint">Dialogue</td><td><span class="in sel">Gemini</span></td><td><span class="in sel">gemini-3.1-pro</span></td></tr>
+ <tr><td class="exp">▸</td><td><b>Memory</b></td><td class="hint">Digest, fiches</td><td><span class="in sel">Default</span></td><td>gemini-3.1-flash <span class="hint">(default)</span></td></tr>
+ <tr><td class="exp">▸</td><td><b>Image generation</b></td><td class="hint">Featured &amp; post images</td><td><span class="in sel">Gemini</span></td><td><span class="in sel">imagen-4</span></td></tr>
+ <tr class="erow"><td class="exp">▸</td><td><b>Social copy</b></td><td class="hint">Captions</td><td><span class="in sel">Gemini</span></td><td><span class="in sel">gemini-2.5-flash-tts</span><div class="errtxt">Error: this is a speech model. Pick a text model.</div></td></tr>
+ <tr><td class="exp">▸</td><td><b>Speech</b></td><td class="hint">Podcast, Shorts</td><td><span class="in sel">Gemini</span></td><td><span class="in sel">Gemini TTS · gemini-2.5-flash-tts</span></td></tr>
+ <tr><td class="exp">▸</td><td><b>Music</b></td><td class="hint">Shorts background</td><td><span class="in sel">Gemini</span></td><td><span class="in sel">Lyria · lyria-002</span></td></tr>
+ </table>
+ <div class="hint" style="margin-top:8px">Model lists show known models for each task, plus "Other model ID…" for new ones. An unknown ID gets a warning; only a model known to be the wrong type is blocked.</div>
+ </div></div></div></div></div>
+
+<!-- P5 -->
 <div class="screen" id="p5-migration">
- <div class="side"><div>Dashboard</div><div class="gap"></div><div class="top cur">PressHub</div><div class="sub cur">Settings</div></div>
- <div class="main"><h1>PressHub Settings</h1><div class="crumb">Phase 5: clean-up once every setting has its place. Unused settings are removed; renames only if approved.</div>
- <div class="notice ok"><b>PressHub cleaned up its settings.</b> 9 unused settings were removed, and 21 Shorts and 6 presenter settings were copied to their new names. Nothing you use changed. <a href="#">See what moved</a> · <a href="#">Dismiss</a></div>
- <div class="card"><h2>Migration report <span class="pill ok">Done 2026-12-02 06:01</span></h2>
- <table><tr><th>Old option</th><th>New option</th><th>Value kept</th><th>Old key</th></tr>
- <tr class="mono"><td>presshub_social_github_token</td><td>(removed: plugin updates use presshub_ai_github_token)</td><td>—</td><td>deleted</td></tr>
- <tr class="mono"><td>presshub_social_twitter_api_key, _api_secret, …</td><td>(removed: never read)</td><td>—</td><td>deleted</td></tr>
- <tr class="mono"><td>presshub_social_tiktok_shorts_count</td><td>presshub_social_shorts_count</td><td>3</td><td>deleted after 1 release</td></tr>
- <tr class="mono"><td>presshub_social_tiktok_shorts_voice_1</td><td>presshub_social_shorts_voice_1</td><td>Puck</td><td>deleted after 1 release</td></tr>
- <tr class="mono"><td>presshub_ai_briefing_host_female</td><td>presshub_ai_briefing_presenter_1</td><td>Ελένη</td><td>deleted after 1 release</td></tr>
- <tr class="mono"><td>presshub_ai_api_key (legacy)</td><td>provider grid → Gemini</td><td>already present</td><td>fallback removed</td></tr></table>
- <div class="hint" style="margin-top:8px">The worker claim API keeps sending the same field names, so the worker on your PC doesn't need an update for this release.</div></div>
+ <div class="side"><div>Dashboard</div><div class="gap"></div><div class="top cur">PressHub</div><div class="sub cur">Usage &amp; logs</div><div class="sub">Settings</div></div>
+ <div class="main"><h1>PressHub — Usage &amp; logs</h1><div class="crumb">Phase 5: clean-up once every setting has its place. Stored names stay as they are; only unused settings and old key fallbacks go.</div>
+ <div class="notice ok"><b>PressHub cleaned up its settings.</b> 5 unused settings were removed after your sign-off. A copy of all settings was saved first. Nothing you use changed. <a href="#">See the report</a> · <a href="#">Dismiss</a></div>
+ <div class="card"><h2>Clean-up report <span class="pill ok">Done 2 Dec 2026, 06:01</span></h2>
+ <table><tr><th>Setting</th><th>What happened</th><th>Why</th><th></th></tr>
+ <tr><td><b>Second GitHub token</b></td><td>Removed</td><td>Plugin updates use the AI GitHub token</td><td><a href="#">Details</a></td></tr>
+ <tr><td><b>X OAuth1 keys</b> (3)</td><td>Removed</td><td>Never read</td><td><a href="#">Details</a></td></tr>
+ <tr><td><b>Podcast prompts 1–3</b></td><td>Removed</td><td>Replaced by the prompt studio</td><td><a href="#">Details</a></td></tr>
+ <tr><td><b>Old Gemini key</b></td><td>Copied to Connections → Gemini, old copy no longer read</td><td>Same key in two places</td><td><a href="#">Details</a></td></tr>
+ <tr class="adv"><td colspan="4" class="mono">Details: presshub_social_twitter_api_key, presshub_social_twitter_api_secret, presshub_social_twitter_access_token_secret · deleted on upgrade</td></tr>
+ </table>
+ <div class="save"><span class="btn">Download the pre-clean-up copy (JSON, no keys)</span><span class="hint">The worker receives the same fields as before, so it doesn't need an update.</span></div></div>
  </div></div>
 </body></html>
